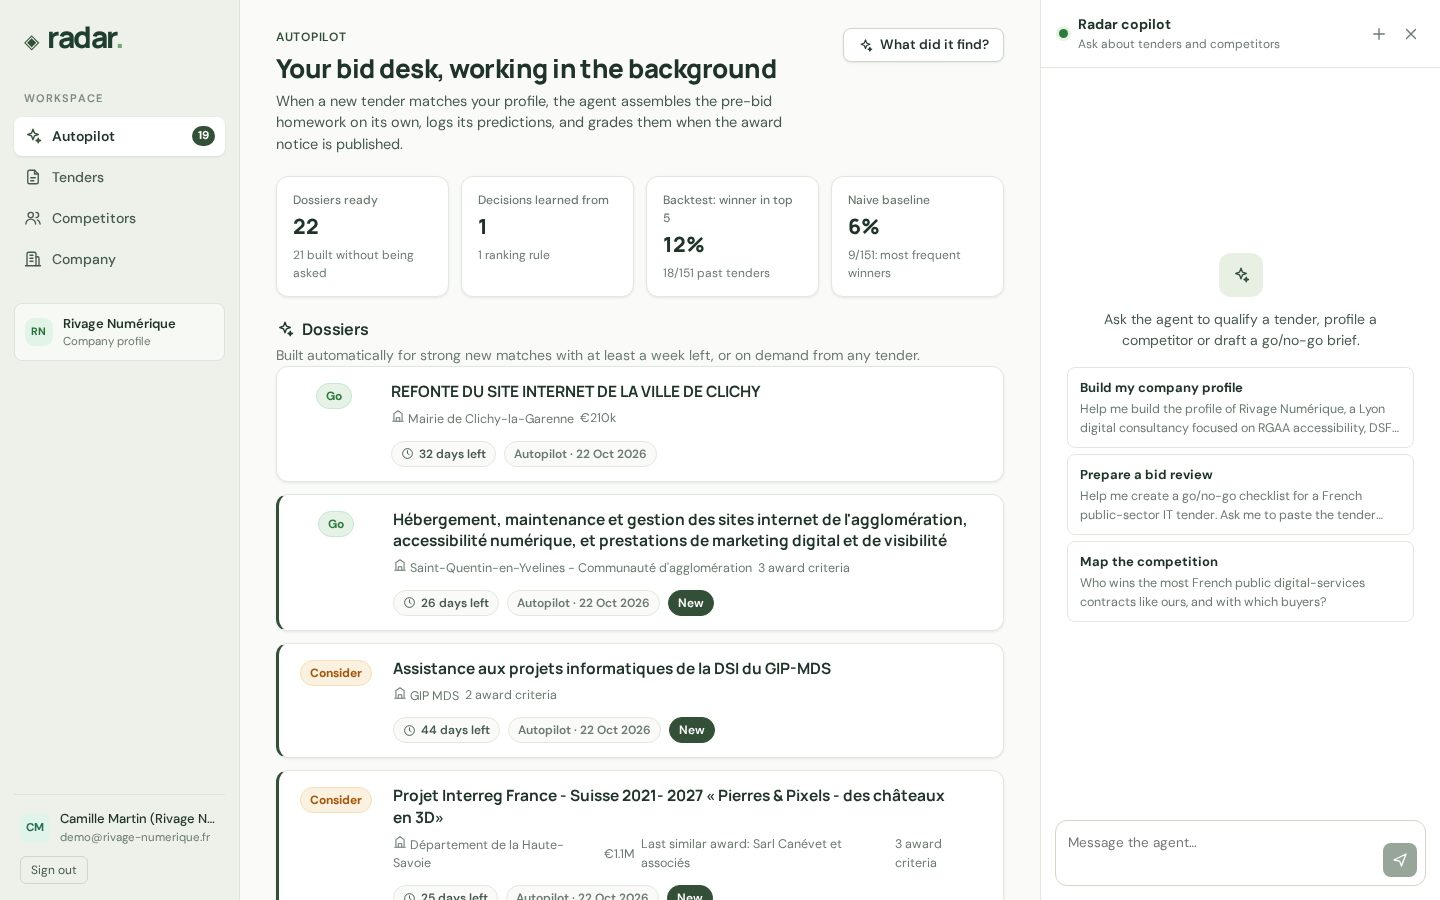
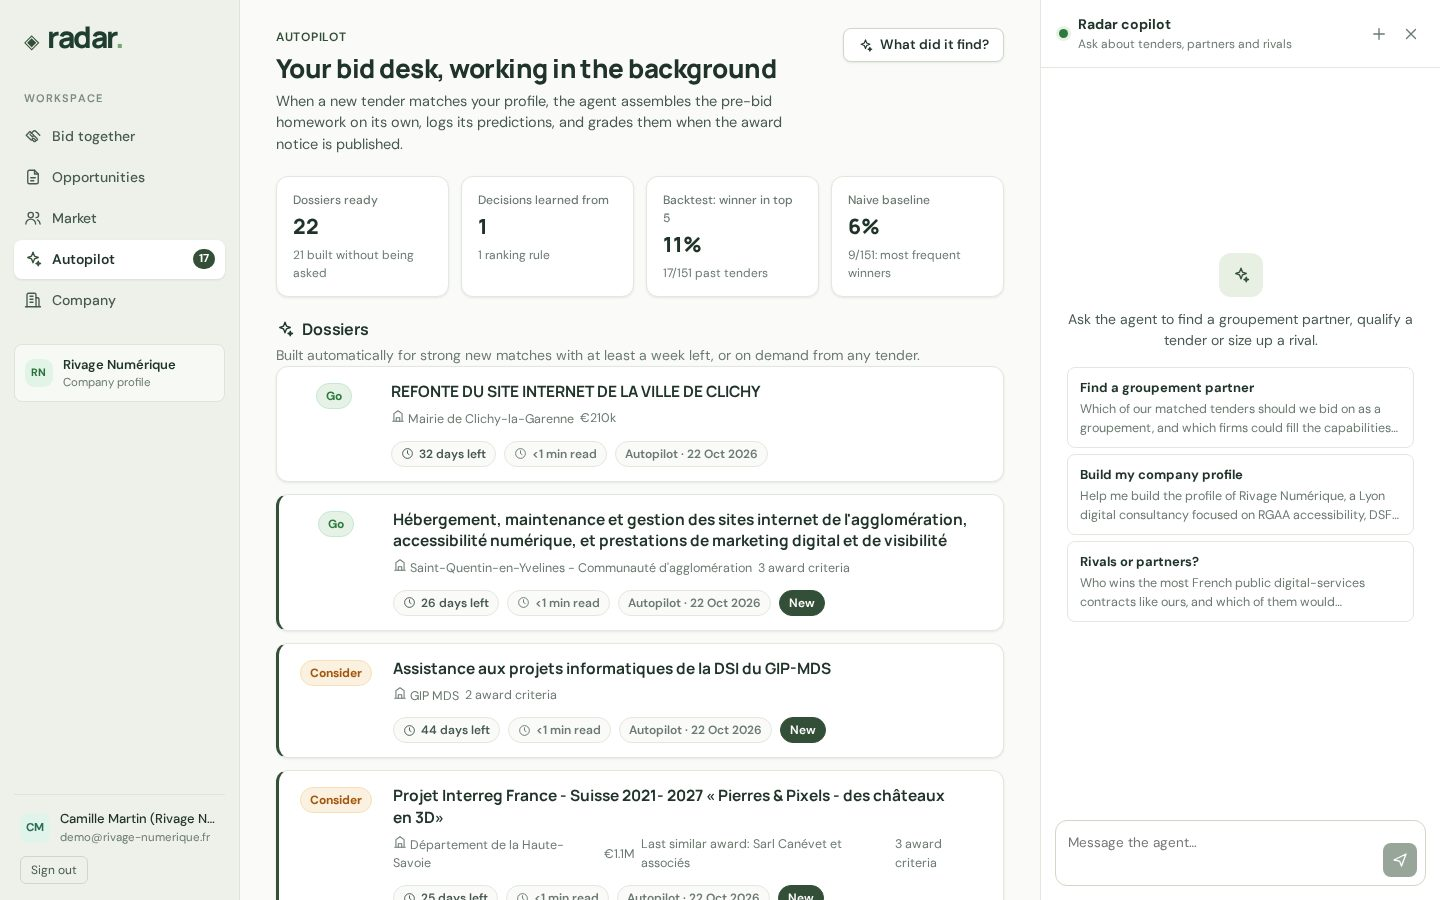
Hackathon deck: journey screenshots with the new joint-bidding app nav
The app nav changed in #46 (Bid together, Opportunities, Market). The
journey slide now shows Bid together → opportunity with a gap →
partner finder → Autopilot, re-captured from dev at ~13:20 UTC.
Screenshots no longer used are removed.

diff --git a/web/src/components/Hackathon.tsx b/web/src/components/Hackathon.tsx
@@ -673,12 +673,12 @@ function buildSlides(): SlideDef[] {
             One journey, <em>start to finish.</em>
           </h2>
           <div className="hk-journey">
-            <Shot src="autopilot" step="1" caption="Autopilot inbox: 22 dossiers built without being asked; Go first." />
-            <Shot src="dossier" step="2" caption="A dossier: verdict, calendar, criteria, likely bidders, draft questions in French." />
-            <Shot src="competitors" step="3" caption="Competitors ranked from real award notices, not seeded." />
-            <Shot src="tenders" step="4" caption="Matched tenders with a fit score and a one-line reason." />
+            <Shot src="bid-together" step="1" caption="Bid together: matched tenders that need a partner, with the missing capability named." />
+            <Shot src="opportunity" step="2" caption="An opportunity: why it fits, and the gap flagged from the French notice." />
+            <Shot src="partner-finder" step="3" caption="Partner finder: firms that fill the gap, with TED awards and joint bids as evidence." />
+            <Shot src="autopilot" step="4" caption="Autopilot: pre-bid dossiers built without being asked." />
           </div>
-          <p className="hk-foot">Screenshots of the dev deployment, 22 Oct 2026 ~11:55 UTC, demo user. Try it yourself: last slide.</p>
+          <p className="hk-foot">Screenshots of the dev deployment, 22 Oct 2026 ~13:20 UTC, demo user. Try it yourself: last slide.</p>
         </div>
       ),
     },
